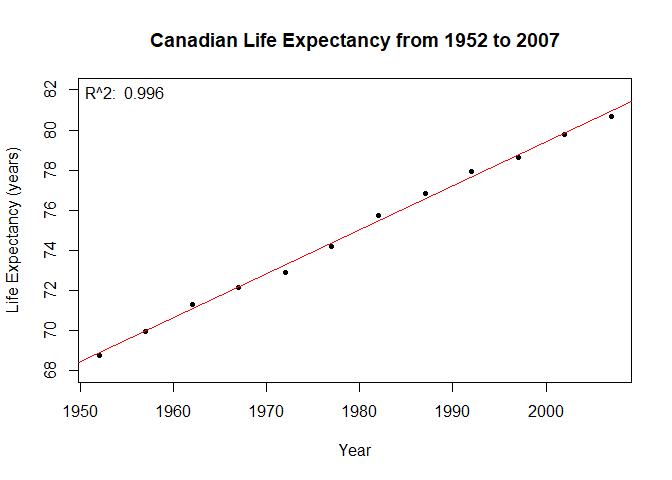
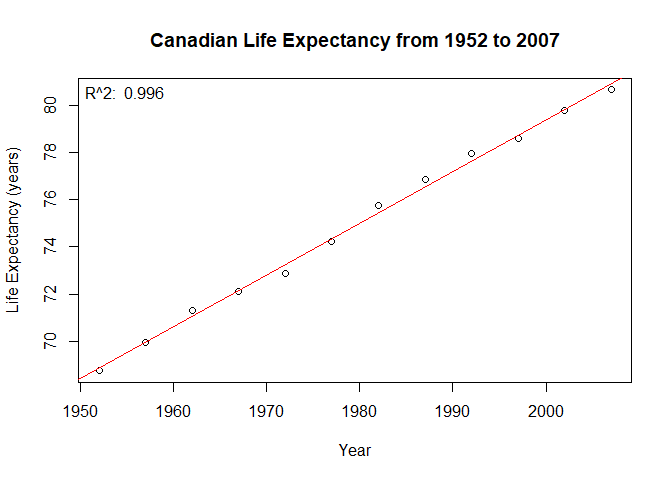
Tidied the plot function

diff --git a/hw01/hw01_gapminder.md b/hw01/hw01_gapminder.md
@@ -28,9 +28,14 @@ refined_data <- col_data %>%
 
 ### Create scatterplot
 
+#### Note: requires plotrix package.
+
 ``` r
 attach(refined_data) # Defines dataset as current object
-plot(year, lifeExp, main="Canadian Life Expectancy from 1952 to 2007", xlab="Year",ylab="Life Expectancy (years)", pch=20, xlim=NULL,ylim=c(68,82))
+plot_title <- "Canadian Life Expectancy from 1952 to 2007"
+x_title <- "Year"
+y_title <- "Life Expectancy (years)"
+plot(year, lifeExp, main=plot_title, xlab=x_title,ylab=y_title)
 
 # Add line of best fit:
 fit <- lm(lifeExp~year)
@@ -50,4 +55,4 @@ plotrix::corner.label(rsq_label)
     ## [1] 1949.8
     ## 
     ## $y
-    ## [1] 82.56
+    ## [1] 81.12912
